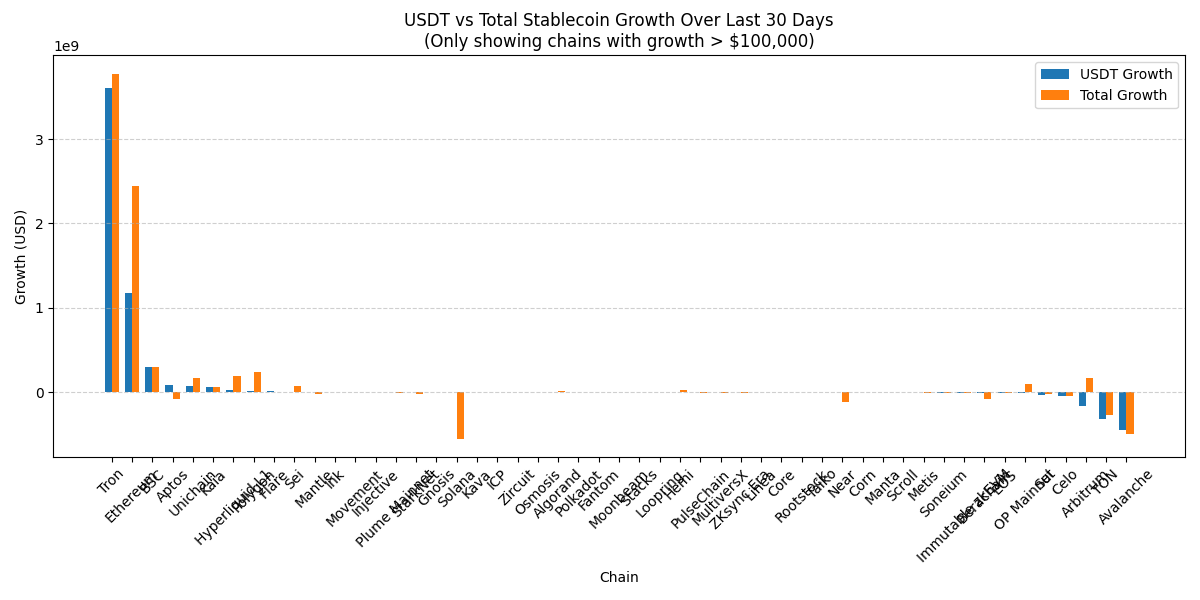
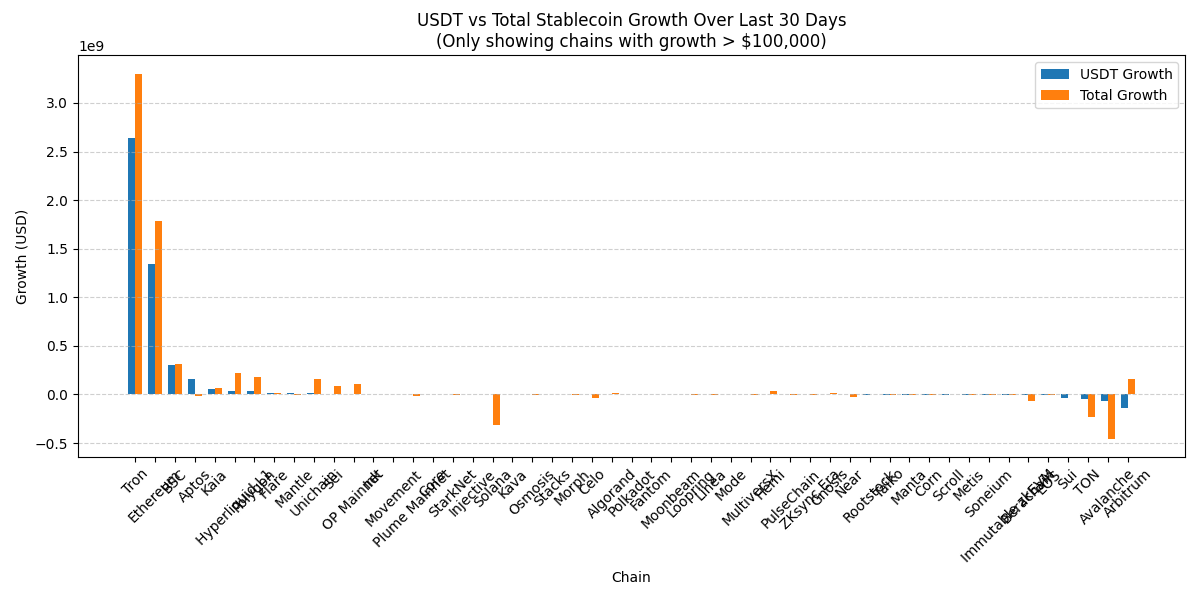
fixing zks, optimism

diff --git a/src/defillama_import.py b/src/defillama_import.py
@@ -154,7 +154,7 @@ if fetch_new_data:
         'Noble', 
         'Stellar', 
         'Aptos', 
-        'Optimism', 
+        'OP Mainnet', 
         'Algorand', 
         'Near', 
         'Hedera',
@@ -163,7 +163,7 @@ if fetch_new_data:
         'Celo', 
         'Linea', 
         'Unichain', 
-        'ZKSync Era', 
+        'ZKsync Era', 
         'Sonic', 
         'World Chain', 
         'Ripple',
@@ -232,10 +232,27 @@ if fetch_new_data:
         supply = today_total_stablecoins[chain]
         print(f"{i:2d}. {chain}: ${supply:,.2f}")
 
-    # Calculate daily market share for top 10 chains only
+    # Combine top 10 chains with all USDC native chains
+    # First, get all chains with native USDC that have data in our dataset
+    usdc_native_chains_with_data = [chain for chain in usdc_native_chains if chain in usdc_chains]
+    
+    # Combine top 10 chains with native USDC chains and remove duplicates
+    combined_chains = list(set(top_10_total_chains + usdc_native_chains_with_data))
+    
+    print(f"\nCombined analysis will include:")
+    print(f"  • Top 10 chains by stablecoin volume: {len(top_10_total_chains)} chains")
+    print(f"  • USDC native chains with data: {len(usdc_native_chains_with_data)} chains")
+    print(f"  • Total unique chains to analyze: {len(combined_chains)} chains")
+    
+    # Show which native USDC chains are being included
+    native_chains_not_in_top10 = [chain for chain in usdc_native_chains_with_data if chain not in top_10_total_chains]
+    if native_chains_not_in_top10:
+        print(f"  • Additional native USDC chains (not in top 10): {', '.join(native_chains_not_in_top10)}")
+
+    # Calculate daily market share for combined set of chains
     usdc_market_share_data = []
 
-    for chain in top_10_total_chains:
+    for chain in combined_chains:
         print(f"\nProcessing USDC market share for chain: {chain}")
         
         # Get data for this specific chain
@@ -299,8 +316,9 @@ if fetch_new_data:
         print(f"\nUSDC market share data saved to usdc_market_share_90days.csv")
         print(f"Total records: {len(usdc_market_share_df)}")
         
-        # Print summary statistics across top 10 chains
-        print("\n=== USDC Market Share Summary - Top 10 Chains by Total Stablecoins (Last 90 Days) ===")
+        # Print summary statistics across all analyzed chains
+        print(f"\n=== USDC Market Share Summary - Top 10 Chains + Native USDC Chains (Last 90 Days) ===")
+        print(f"Total chains analyzed: {len(combined_chains)}")
         summary_stats = usdc_market_share_df.groupby('chain')['usdc_market_share_pct'].agg([
             'mean', 'max', 'min', 'std'
         ]).round(2)
@@ -319,6 +337,14 @@ if fetch_new_data:
             today_usdc_supplies[chain] = usdc_supply
         
         summary_stats['Today_USDC_Supply'] = summary_stats.index.map(today_usdc_supplies)
+        
+        # Add a column to identify chain type for better understanding
+        summary_stats['Chain_Type'] = summary_stats.index.map(
+            lambda x: 'Top 10 + Native' if x in top_10_total_chains and x in usdc_native_chains_with_data
+            else 'Top 10 Only' if x in top_10_total_chains
+            else 'Native Only'
+        )
+        
         summary_stats = summary_stats.sort_values('Today_Total_Stablecoins', ascending=False)
         
         print(summary_stats.to_string())
